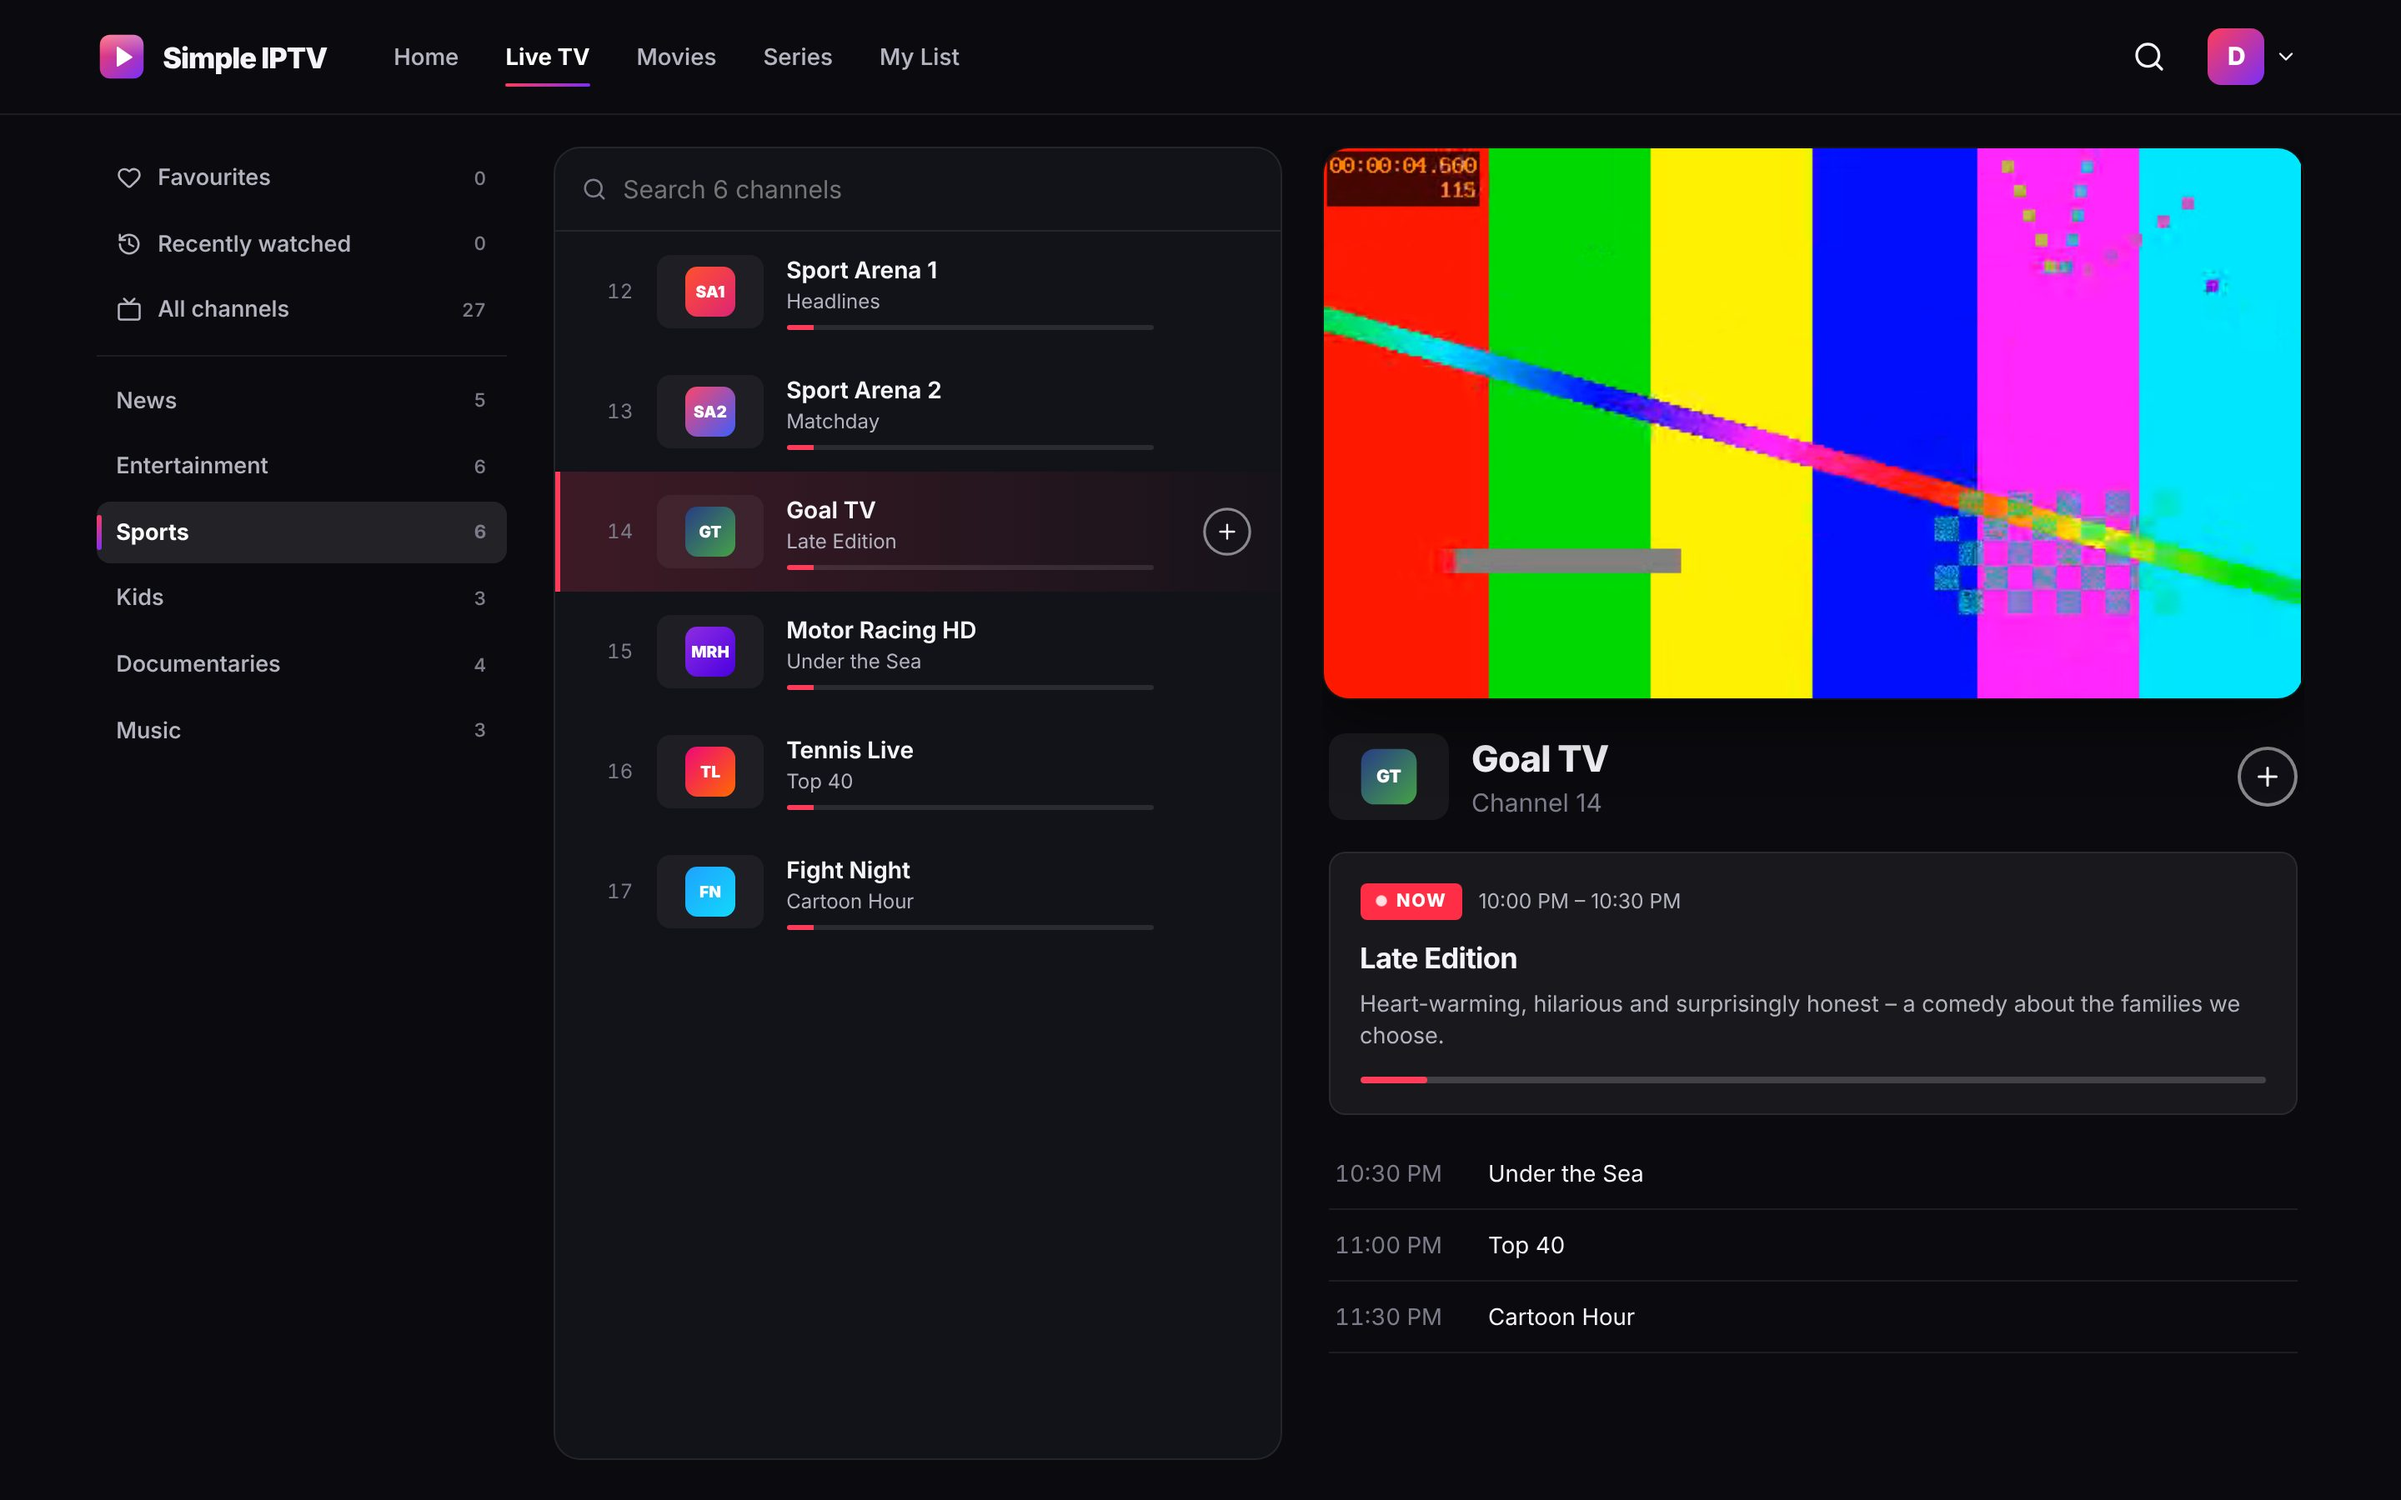
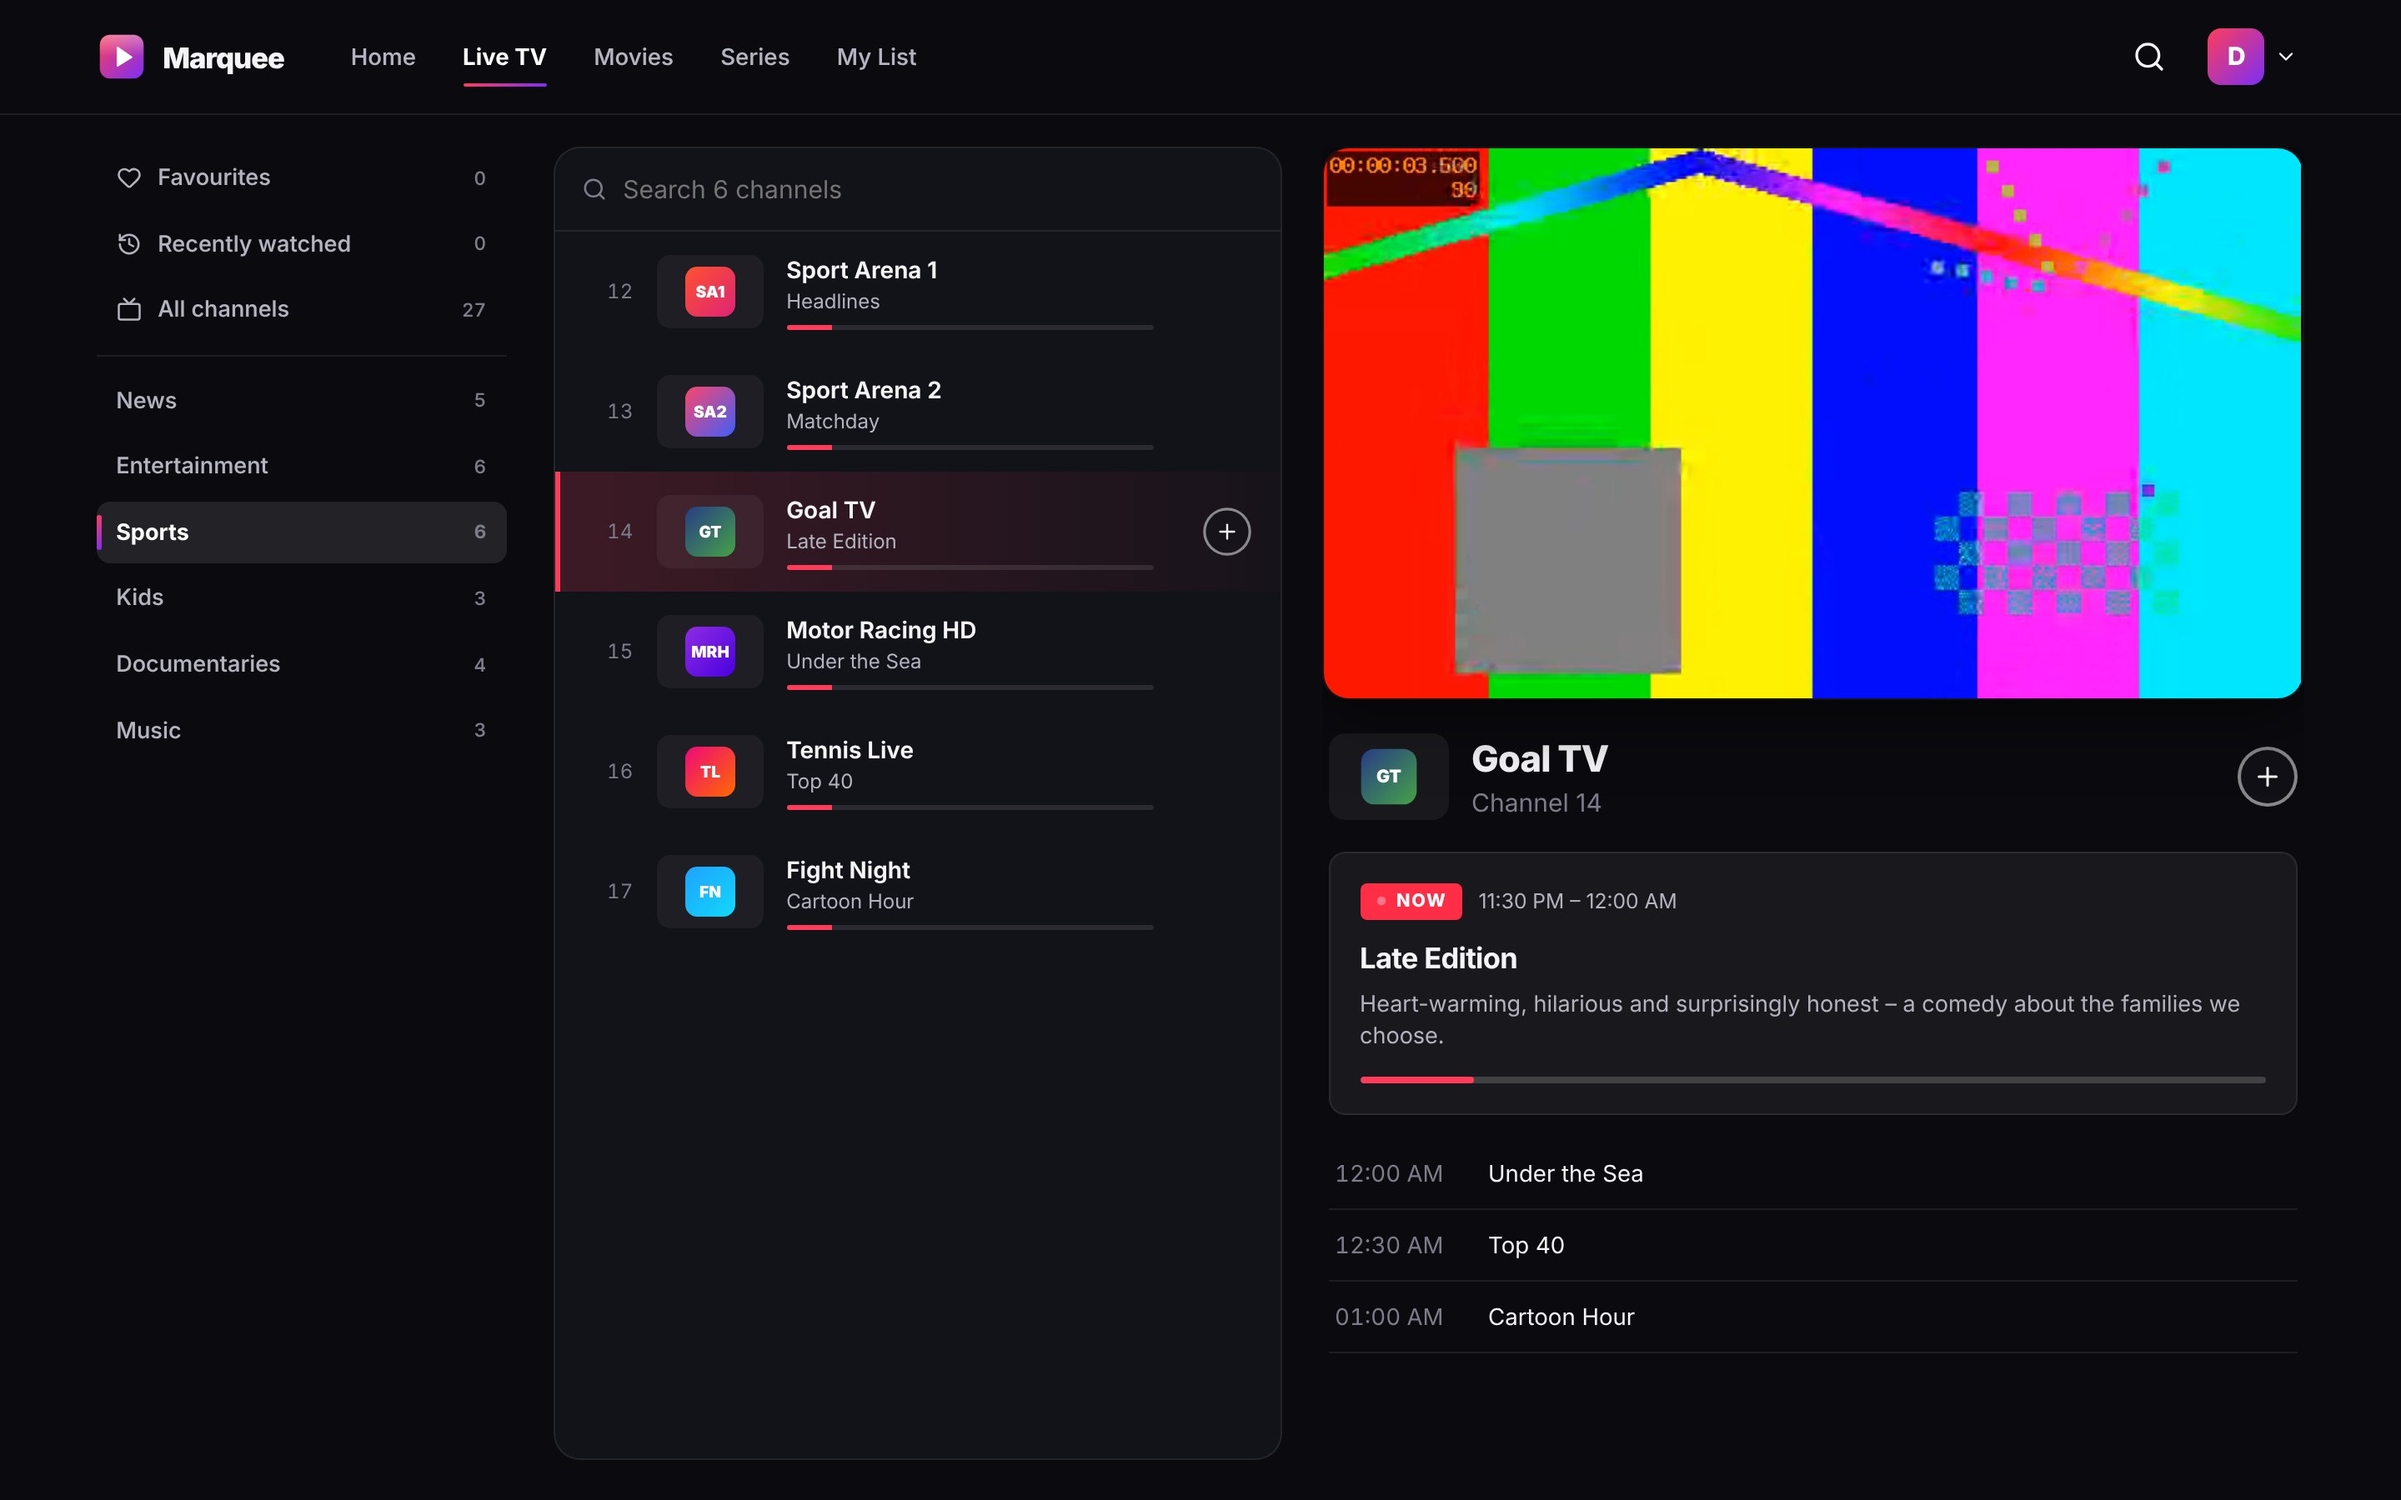
chore: rename app to Marquee
Rename the product, window title, bundle identifier, crate, npm package,
storage keys, release name and docs from Simple IPTV Player to Marquee.
Refresh the home and live screenshots to show the new brand.

Claude-Session: https://claude.ai/code/session_016zANDPJ2PvvLCZNjeY2jpD

diff --git a/e2e/specs/onboarding.spec.ts b/e2e/specs/onboarding.spec.ts
@@ -2,7 +2,7 @@ import { expect, loginXtream, MOCK, test } from "../support/fixtures";
 
 test("shows the sign-in screen on first launch", async ({ page }) => {
   await page.goto("/");
-  await expect(page.getByRole("heading", { name: "Simple IPTV" })).toBeVisible();
+  await expect(page.getByRole("heading", { name: "Marquee" })).toBeVisible();
   await expect(page.getByRole("button", { name: "Xtream Codes" })).toBeVisible();
   await expect(page.getByRole("button", { name: "M3U playlist" })).toBeVisible();
 });

diff --git a/src/components/TopNav.tsx b/src/components/TopNav.tsx
@@ -51,7 +51,7 @@ export function TopNav() {
     <nav className={cx("topnav", (solid || view.name === "live" || view.name === "settings") && "is-solid")}>
       <div className="topnav__brand" onClick={() => navigate({ name: "home" })}>
         <img src="/logo.svg" alt="" />
-        <span>Simple IPTV</span>
+        <span>Marquee</span>
       </div>
       <ul className="topnav__links">
         {LINKS.map((l) => (

diff --git a/src/pages/Onboarding.tsx b/src/pages/Onboarding.tsx
@@ -16,7 +16,7 @@ export function Onboarding() {
         <div className="onboarding__brand">
           <img src="/logo.svg" alt="" />
           <div>
-            <h1>Simple IPTV</h1>
+            <h1>Marquee</h1>
             <p className="muted">Fast, beautiful live TV, films and series.</p>
           </div>
         </div>

diff --git a/index.html b/index.html
@@ -5,7 +5,7 @@
     <link rel="icon" type="image/svg+xml" href="/logo.svg" />
     <meta name="viewport" content="width=device-width, initial-scale=1.0" />
     <meta name="color-scheme" content="dark" />
-    <title>Simple IPTV Player</title>
+    <title>Marquee</title>
   </head>
   <body>
     <div id="root"></div>

diff --git a/src/pages/Settings.tsx b/src/pages/Settings.tsx
@@ -161,7 +161,7 @@ export function Settings() {
         </dl>
       </section>
 
-      <p className="muted center">Simple IPTV Player v{version}</p>
+      <p className="muted center">Marquee v{version}</p>
     </div>
   );
 }

diff --git a/src/lib/idb.ts b/src/lib/idb.ts
@@ -1,5 +1,5 @@
 // Minimal promise wrapper around IndexedDB used as a catalog cache.
-const DB_NAME = "simple-iptv";
+const DB_NAME = "marquee";
 const STORE = "kv";
 
 let dbPromise: Promise<IDBDatabase> | null = null;

diff --git a/src/store/app.ts b/src/store/app.ts
@@ -225,7 +225,7 @@ export const useApp = create<State>()(
       },
     }),
     {
-      name: "simple-iptv",
+      name: "marquee",
       version: 1,
       partialize: (s) => ({
         sources: s.sources,

diff --git a/src-tauri/src/main.rs b/src-tauri/src/main.rs
@@ -2,5 +2,5 @@
 #![cfg_attr(not(debug_assertions), windows_subsystem = "windows")]
 
 fn main() {
-    simple_iptv_player_lib::run()
+    marquee_lib::run()
 }

diff --git a/README.md b/README.md
@@ -1,4 +1,4 @@
-# Simple IPTV Player
+# Marquee
 
 A fast, minimal desktop IPTV player with a Netflix / BBC iPlayer-style interface. Built with **Tauri 2**, **React 19** and a small **Rust streaming proxy**.
 
@@ -80,7 +80,7 @@ The version is taken from the tag (`scripts/set-version.mjs`), so you never edit
 
 ### Optional: code signing
 
-Builds are unsigned by default. On macOS, run `xattr -cr "/Applications/Simple IPTV Player.app"` after installing. To sign, add these repository secrets and pass them as `env` to the `tauri-action` step: `APPLE_CERTIFICATE`, `APPLE_CERTIFICATE_PASSWORD`, `APPLE_SIGNING_IDENTITY`, `APPLE_ID`, `APPLE_PASSWORD`, `APPLE_TEAM_ID` (macOS), or a Windows certificate (see the [Tauri signing docs](https://v2.tauri.app/distribute/sign/)).
+Builds are unsigned by default. On macOS, run `xattr -cr "/Applications/Marquee.app"` after installing. To sign, add these repository secrets and pass them as `env` to the `tauri-action` step: `APPLE_CERTIFICATE`, `APPLE_CERTIFICATE_PASSWORD`, `APPLE_SIGNING_IDENTITY`, `APPLE_ID`, `APPLE_PASSWORD`, `APPLE_TEAM_ID` (macOS), or a Windows certificate (see the [Tauri signing docs](https://v2.tauri.app/distribute/sign/)).
 
 ## Keyboard shortcuts
 
